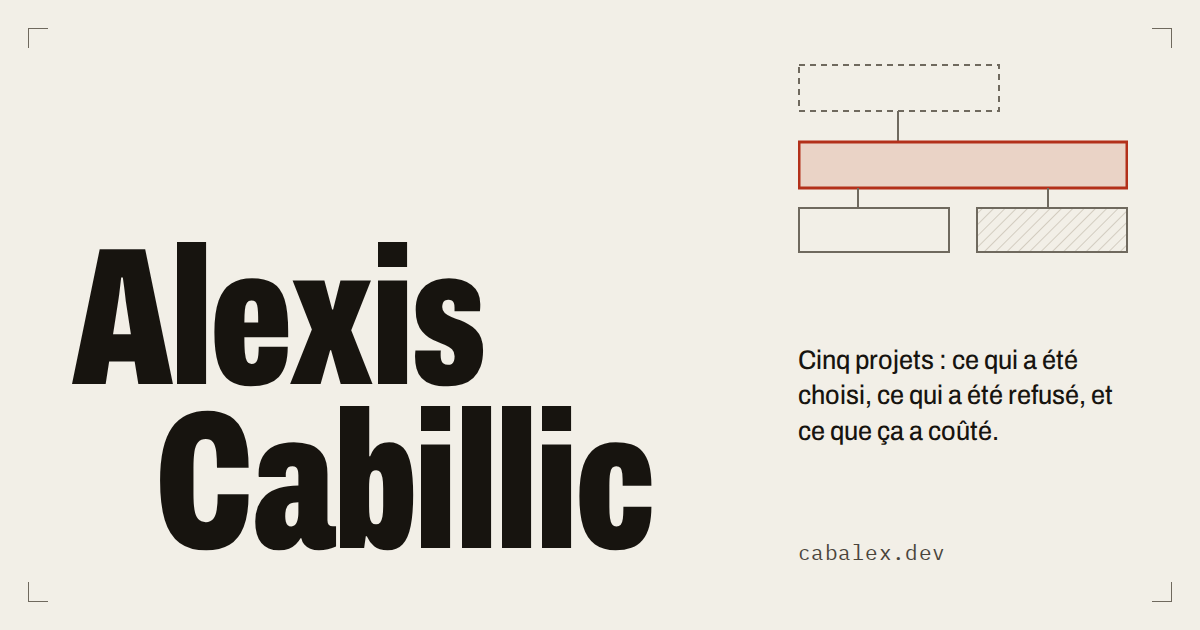
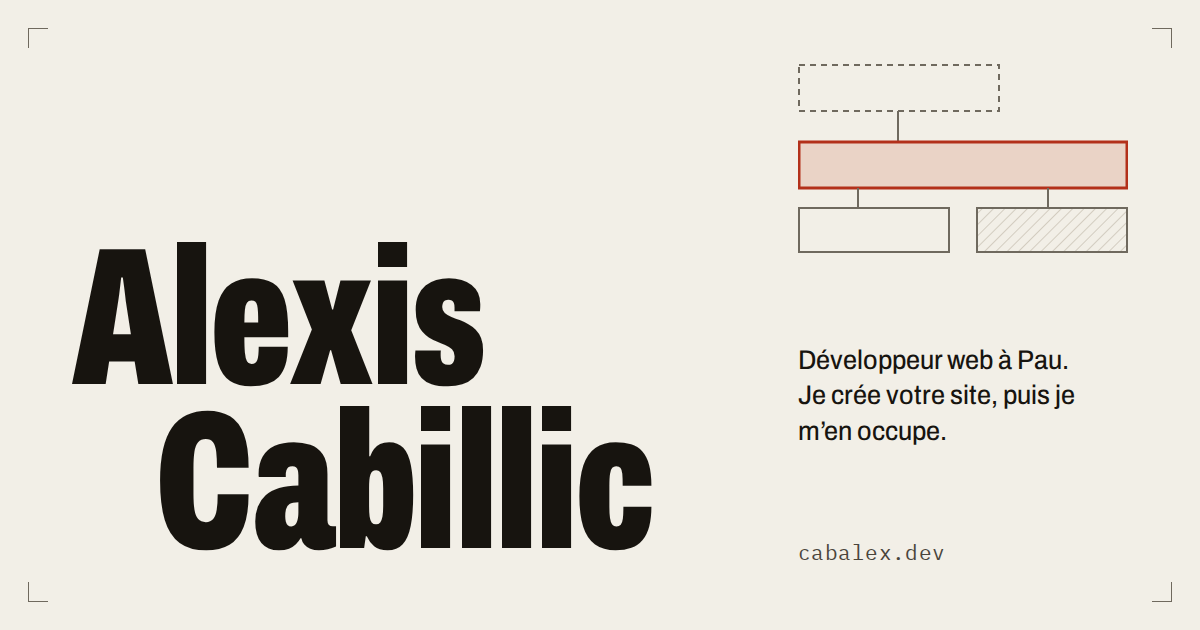
feat(offre): page /offre, mentions légales de la SASU, image OG
Formules, tableau comparatif, inclus / pas inclus, engagement et
propriété, déroulement, bots et sur-mesure, FAQ en <details> natifs.
Mentions légales : champs de la SASU et lien CGV en TODO(cabalex), qui
bloquent le build de production jusqu'à l'immatriculation. 404, sitemap
et image Open Graph mis à jour.

Changed region(s): [[0.6475, 0.5429, 0.925, 0.7238]]

diff --git a/src/styles/global.css b/src/styles/global.css
@@ -760,6 +760,49 @@
   .vav-externe > p:not(.etiquette) { font-weight: 450; }
   .services > li { display: grid; gap: 0.4rem; align-content: start; padding-top: 0.7rem; border-top: 2px solid var(--encre); }
   .services h3 { font-size: var(--t-2); font-stretch: 62%; font-weight: 800; line-height: 1; }
+  .services ul { padding-left: 1.2em; }
+  .services ul li + li { margin-top: 0.4em; }
+  .services ul li::marker { color: var(--trait-fort); }
+
+  .offre-tete { padding-top: calc(var(--rythme) * 2.5); margin-top: 0; row-gap: calc(var(--rythme) * 1.2); }
+
+  /*
+   * Tableau comparatif. Sur petit écran, lui seul défile de côté, jamais la
+   * page ; la région est focalisable pour défiler au clavier.
+   */
+  .tableau { overflow-x: auto; margin-top: calc(var(--rythme) * 0.4); }
+  .tableau table { width: 100%; min-width: 36rem; border-collapse: collapse; font-size: var(--t--1); line-height: 1.4; }
+  .tableau caption { caption-side: bottom; text-align: start; padding-top: 0.6rem; }
+  .tableau :is(th, td) { padding: 0.55rem 1rem 0.55rem 0; text-align: start; vertical-align: top; border-bottom: 1px solid var(--trait); }
+  .tableau thead th { font-size: var(--t-1); font-stretch: 62%; font-weight: 800; line-height: 1; border-bottom: 2px solid var(--encre); }
+  .tableau thead td { border-bottom: 2px solid var(--encre); }
+  /* Le libellé de la ligne reste visible pendant le défilement latéral. */
+  .tableau tbody th { position: sticky; left: 0; width: 30%; background: var(--papier); font-weight: 600; font-stretch: 92%; }
+
+  /* Questions fréquentes : <details> natifs, aucun script. */
+  .faq { display: grid; }
+  .faq details { border-top: 1px solid var(--trait); }
+  .faq details:last-child { border-bottom: 1px solid var(--trait); }
+  .faq summary {
+    display: flex;
+    justify-content: space-between;
+    gap: 1rem;
+    align-items: baseline;
+    min-height: 2.75rem;
+    padding-block: 0.7rem;
+    font-size: var(--t-1);
+    font-stretch: 92%;
+    font-weight: 700;
+    line-height: 1.25;
+    cursor: pointer;
+    list-style: none;
+  }
+  .faq summary::-webkit-details-marker { display: none; }
+  .faq summary::after { content: '+'; content: '+' / ''; font-family: var(--mono); font-weight: 400; color: var(--signal); }
+  .faq details[open] summary::after { content: '−'; content: '−' / ''; }
+  .faq summary:hover { color: var(--signal); }
+  .faq details > :not(summary) { margin-bottom: var(--rythme); }
+
   .deroulement {
     display: grid;
     grid-template-columns: repeat(auto-fit, minmax(min(100%, 14rem), 1fr));

diff --git a/src/pages/sitemap.xml.ts b/src/pages/sitemap.xml.ts
@@ -1,9 +1,9 @@
 import type { APIRoute } from 'astro';
 import { projets } from '../data/projets';
 
-// Plan du site écrit à la main : cinq URL ne justifient pas une dépendance.
+// Plan du site écrit à la main : quelques URL ne justifient pas une dépendance.
 export const GET: APIRoute = ({ site }) => {
-  const chemins = ['/', ...projets.map((p) => `/${p.slug}`), '/mentions-legales'];
+  const chemins = ['/', '/offre', ...projets.map((p) => `/${p.slug}`), '/mentions-legales'];
   const urls = chemins.map((c) => `  <url><loc>${new URL(c, site)}</loc></url>`).join('\n');
   return new Response(
     `<?xml version="1.0" encoding="UTF-8"?>\n<urlset xmlns="http://www.sitemaps.org/schemas/sitemap/0.9">\n${urls}\n</urlset>\n`,

diff --git a/scripts/og/og.html b/scripts/og/og.html
@@ -44,7 +44,7 @@
       <rect x="1" y="144" width="150" height="44" stroke="#6f695e"/>
       <rect x="179" y="144" width="150" height="44" fill="url(#h)" stroke="#6f695e"/>
     </svg>
-    <p>Cinq projets : ce qui a été choisi, ce qui a été refusé, et ce que ça a coûté.</p>
+    <p>Développeur web à Pau.<br>Je crée votre site, puis je m’en occupe.</p>
     <span class="mono">cabalex.dev</span>
   </aside>
 </body>

diff --git a/README.md b/README.md
@@ -1,7 +1,8 @@
 # cabalex.dev
 
-Site personnel d'Alexis Cabillic : une page d'accueil et une page par projet. Chaque page projet dit
-ce qui a été choisi, ce qui a été refusé, et ce que ça a coûté.
+Site d'Alexis Cabillic, développeur web freelance à Pau : l'accueil, la page de l'offre (`/offre`) et
+une page par projet. Chaque page projet dit ce qui a été choisi, ce qui a été refusé, et ce que ça a
+coûté. Les prix et conditions de l'offre ont une seule source, `src/data/offre.ts`.
 
 ## Stack
 
@@ -90,7 +91,8 @@ src/components/Etape.astro      Passage du texte lié à une étape de la coupe
 src/components/SuiteAccueil.astro  Projets en cartes, « Comment je travaille », contact
 src/components/Todo.astro       Trou signalé
 src/lib/pointe.ts               Pointe de flèche orientée, partagée par Coupe et Vignette
-src/pages/                      Accueil, cinq projets, mentions légales, 404, sitemap.xml
+src/data/offre.ts               Formules, prix HT, conditions, contact (seule source des prix)
+src/pages/                      Accueil, offre, cinq projets, mentions légales, 404, sitemap.xml
 src/styles/global.css           Système typographique, palettes, grille, coupe, accueil
 scripts/verifier-todos.mjs      Garde-fou de production
 scripts/og/                     Source et génération de l'image Open Graph
